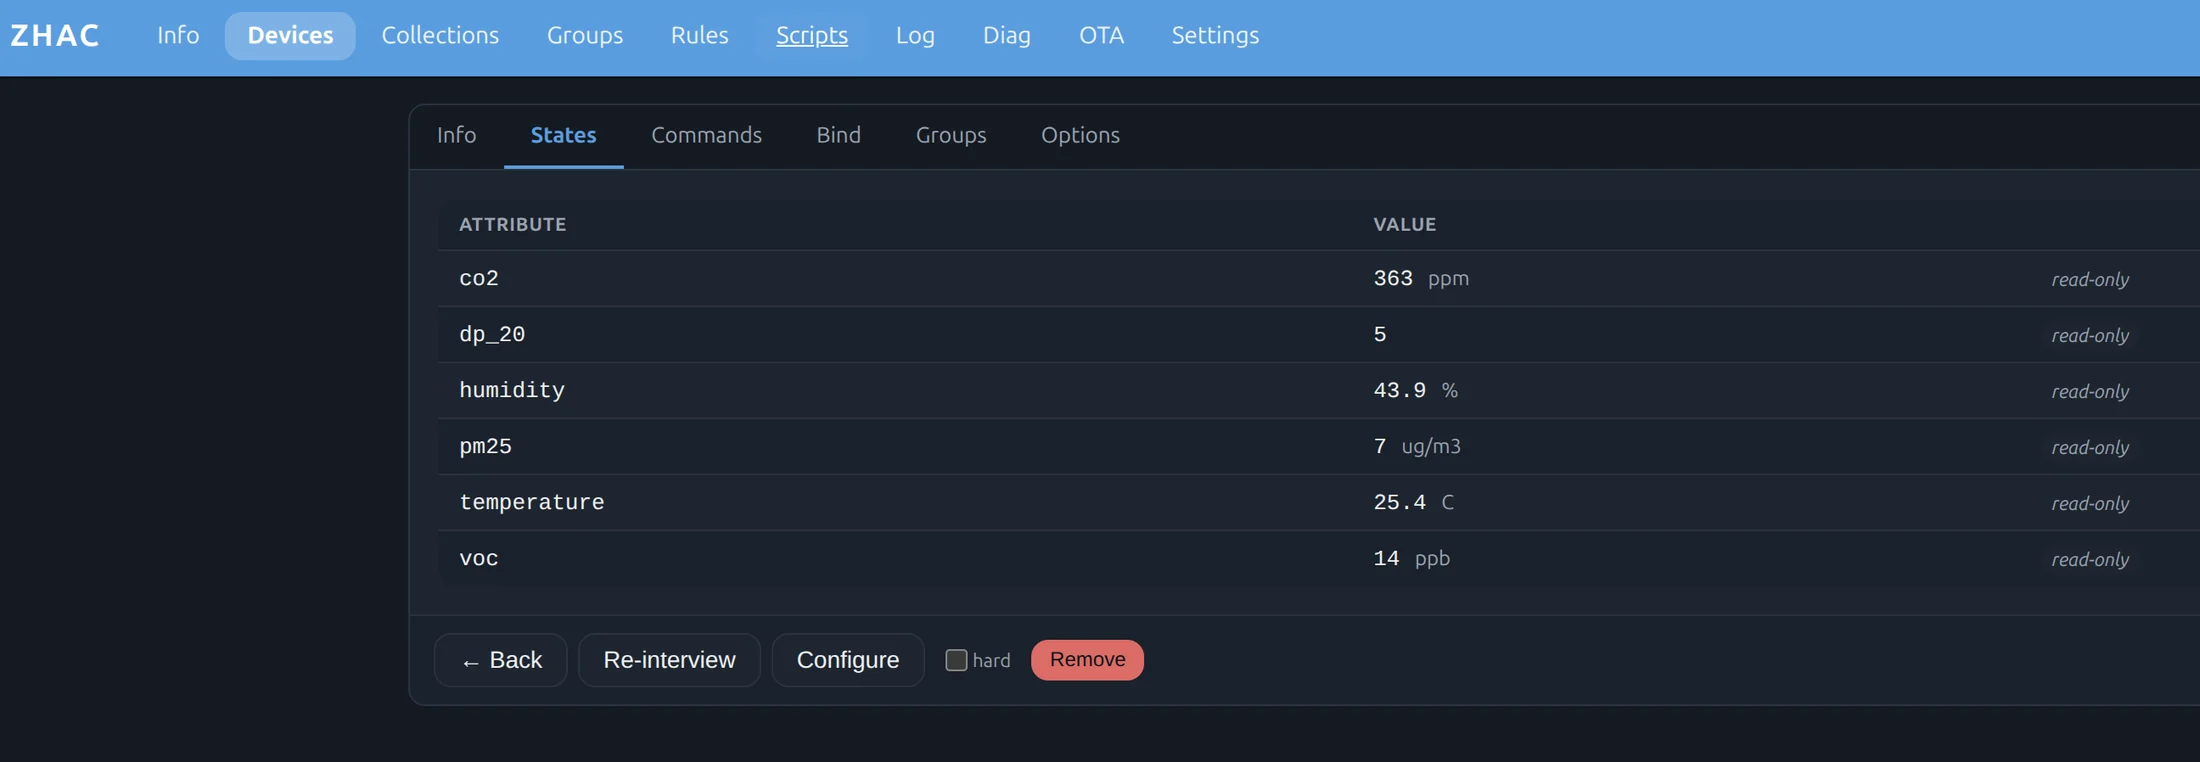
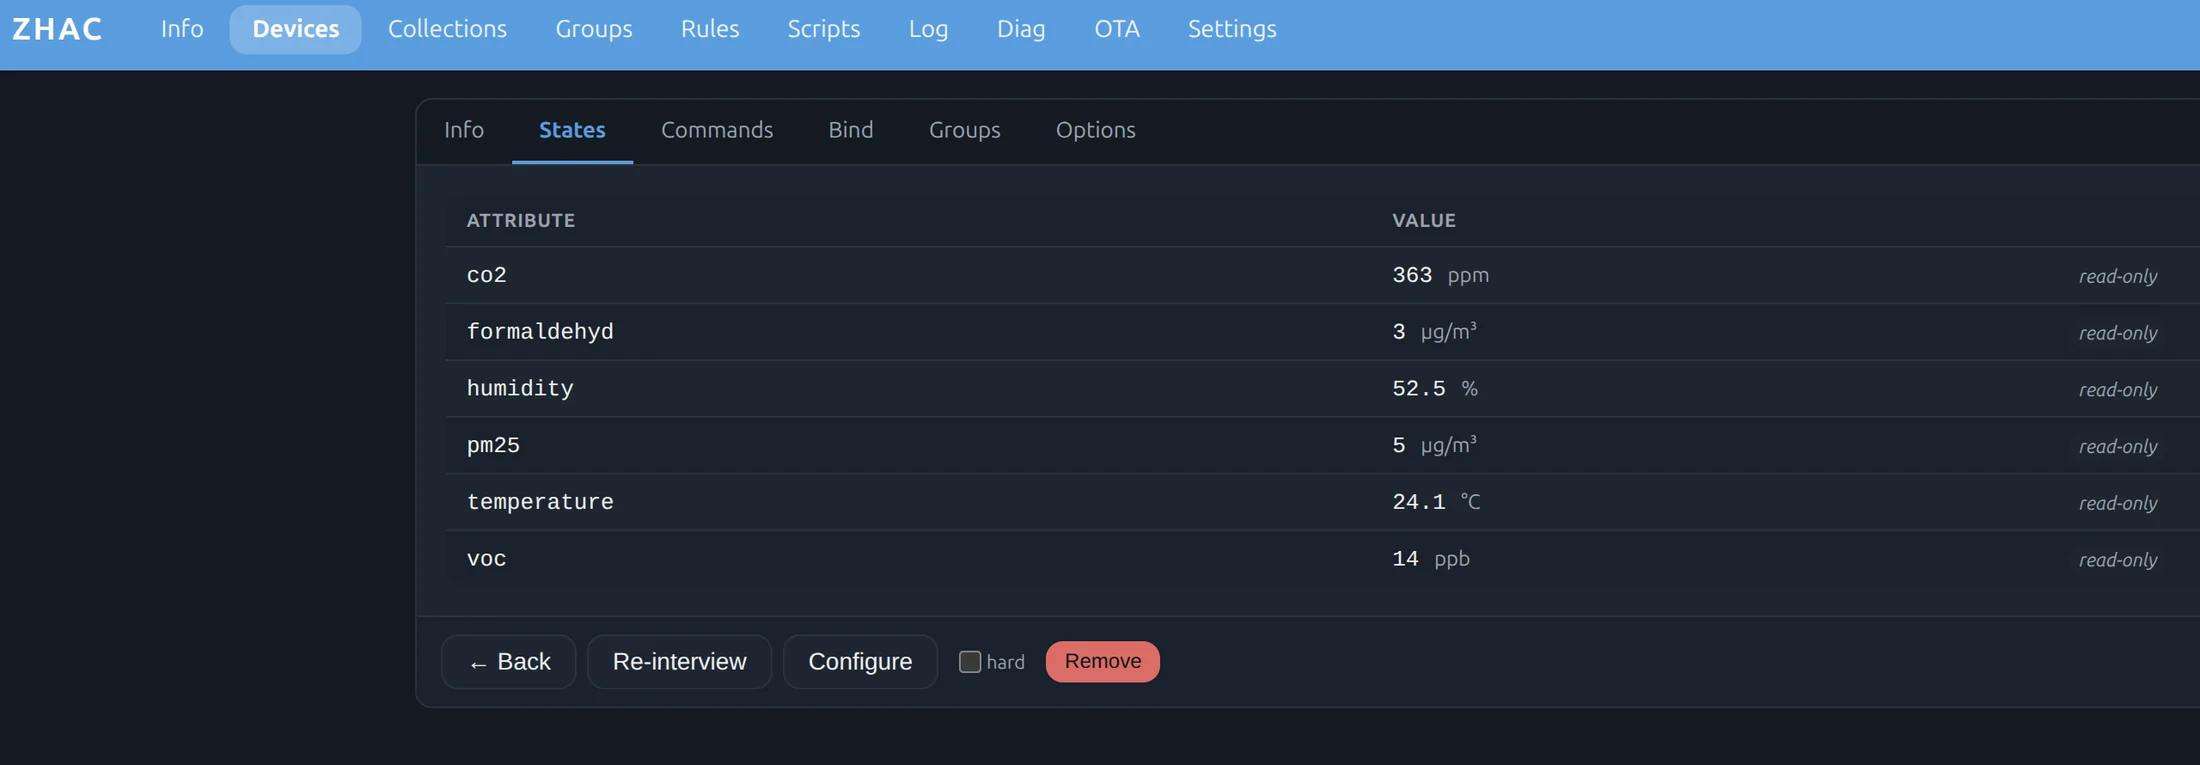
site: fresh States screenshot (formaldehyd, °C, µg/m³)
The air-quality sensor shot was taken before v2026100301 and still showed a
raw dp_20 row, "C" and "ug/m3". Replaced with the owner's capture of the same
sensor on the fixed firmware; the caption now lists formaldehyde too.

Claude-Session: https://claude.ai/code/session_01TWJZnzRKhS65Wm5YZ84sLs

diff --git a/site/index.html b/site/index.html
@@ -121,7 +121,7 @@ img { max-width: 100%; }
 <div style="display: flex; flex-wrap: wrap; gap: 28px">
 <figure style="margin: 0; flex: 1 1 480px; min-width: 0; display: flex; flex-direction: column; gap: 14px">
 <div style="border-radius: 16px; overflow: hidden; background: #111822; box-shadow: 0 10px 30px rgba(15,23,42,0.18)"><img src="assets/hub-states.webp" alt="Live readings of an air-quality sensor: CO2, humidity, PM2.5, temperature and VOC with their units" style="display: block; width: 100%; height: auto"></div>
-<figcaption style="font-size: 16px; line-height: 1.5; color: #4A4F57"><strong style="color: #0F172A">Live readings, with units.</strong> An air-quality sensor reporting CO₂, PM2.5, VOC, temperature and humidity.</figcaption>
+<figcaption style="font-size: 16px; line-height: 1.5; color: #4A4F57"><strong style="color: #0F172A">Live readings, with units.</strong> An air-quality sensor reporting CO₂, PM2.5, VOC, formaldehyde, temperature and humidity.</figcaption>
 </figure>
 <figure style="margin: 0; flex: 1 1 480px; min-width: 0; display: flex; flex-direction: column; gap: 14px">
 <div style="border-radius: 16px; overflow: hidden; background: #111822; box-shadow: 0 10px 30px rgba(15,23,42,0.18)"><img src="assets/valve-schedule.webp" alt="A radiator thermostat's weekly heating schedule with four periods per day, editable in the browser" style="display: block; width: 100%; height: auto"></div>
